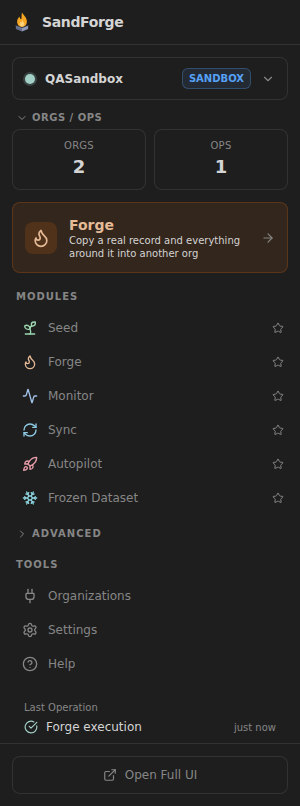
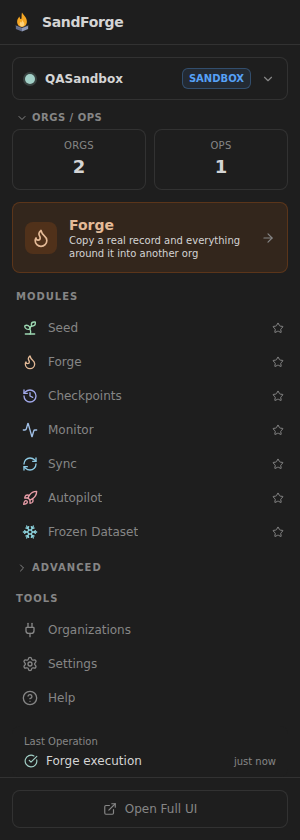
docs: the listing shows Checkpoints, and Home as an org in use
The launcher and Home stills predated Checkpoints, the 1.66.0 module, and
the listing had no picture of it. The generator now shoots the Checkpoints
page of a sandbox and the preview of a rewind, from the fixtures the
Checkpoints specs use, and the README shows both under "Rewind an org to a
checkpoint".

Home was shot with no answer to its org list, which left a row of empty
cards, and showed "Your sandbox is empty" beside a checkpoint of 2,454
records. The shot answers the org list and the checkpoints, dismisses the
banner as a reader of an org in use would, and broadcasts the Seed run and
the Forge clone the other shots show. Forge results is shot tall enough
again for its Remove action, which "Take a checkpoint now" had pushed out.

diff --git a/packages/webview/e2e/screenshots.spec.ts b/packages/webview/e2e/screenshots.spec.ts
@@ -4,10 +4,12 @@ import { createHash } from 'node:crypto';
 import { readFileSync, writeFileSync } from 'node:fs';
 import { fileURLToPath } from 'url';
 
+import type { CheckpointListEntry, CheckpointPreviewResponse } from '@sandforge/shared';
 import { MockBridge } from './helpers';
 import { encodeGif, type GifFrame } from './helpers/gifEncoder';
 import { readPng } from './helpers/readPng';
 import { MOCK_ORGS } from './fixtures';
+import { diffObject, listEntry, readyCheckpoint, USERS } from './fixtures/checkpoints';
 import { sendExtensionMessage } from './mocks/vscode-api';
 
 /**
@@ -434,6 +436,123 @@ const MOCK_SYNC_OBJECTS = {
     'Task',
   ],
 };
+
+/** A day, in milliseconds. */
+const DAY_MS = 86_400_000;
+
+/**
+ * The instant `days` from FIXED_NOW.
+ *
+ * The checkpoint fixtures date from the moment a spec runs, since the page
+ * says each checkpoint's age and expiry from now. These shots run under a
+ * clock frozen at FIXED_NOW, against which a checkpoint dated from the real
+ * now reads as taken months ahead: every date the shots hand the page is set
+ * from here instead.
+ */
+const fromFixedNow = (days: number): string =>
+  new Date(FIXED_NOW.getTime() + days * DAY_MS).toISOString();
+
+/**
+ * The checkpoint the rewind shot previews: what people work on in the dev
+ * sandbox, taken two days ago before a UAT session, kept four weeks.
+ */
+const BEFORE_UAT = readyCheckpoint({
+  readFrom: fromFixedNow(-2),
+  takenAt: fromFixedNow(-2),
+  expiresAt: fromFixedNow(28),
+});
+
+/**
+ * The checkpoints of the dev sandbox, as `checkpoint:list` answers for it:
+ * the one taken before UAT; one taken before a demo, about to expire, with
+ * Keep; and a clean baseline kept until it is deleted, rewound to yesterday,
+ * whose rewind can still be undone — older than the recycle bin keeps
+ * records, which its line says, as the extension says it of any checkpoint
+ * that old.
+ */
+const MOCK_CHECKPOINTS: CheckpointListEntry[] = [
+  listEntry(BEFORE_UAT),
+  listEntry(
+    readyCheckpoint({
+      checkpointId: 'ck-before-demo',
+      name: 'Before demo',
+      readFrom: fromFixedNow(-12),
+      takenAt: fromFixedNow(-12),
+      expiresAt: fromFixedNow(2),
+    }),
+    { expiresSoon: true },
+  ),
+  listEntry(
+    readyCheckpoint({
+      checkpointId: 'ck-clean-baseline',
+      name: 'Clean baseline',
+      readFrom: fromFixedNow(-20),
+      takenAt: fromFixedNow(-20),
+      expiresAt: null,
+      lastRewind: { rewindId: 'rw-last', endedAt: fromFixedNow(-1), undoUntil: fromFixedNow(14) },
+    }),
+    { binReachSince: fromFixedNow(-15), undo: { rewindId: 'rw-last', until: fromFixedNow(14) } },
+  ),
+];
+
+/**
+ * What a rewind of the dev sandbox to "Before UAT" would do, as
+ * `checkpoint:preview` answers it, object by object: the contacts and
+ * accounts the session added deleted, the records it changed given their
+ * values back, and the few it deleted brought back from the recycle bin,
+ * with who last changed each. The org runs nothing as the rewind writes,
+ * and nothing is beyond a rewind: Rewind is offered as it stands.
+ */
+const MOCK_REWIND_PREVIEW: CheckpointPreviewResponse['payload'] = {
+  diff: {
+    checkpointId: BEFORE_UAT.checkpointId,
+    previewId: 'pv-before-uat',
+    readAt: fromFixedNow(0),
+    objects: [
+      diffObject('Contact', {
+        toDelete: { createdSince: 5, broughtBackSince: 0, comesBackWithParent: 0 },
+        toGiveBack: { records: 7, fields: 11, clearedLookups: 0 },
+        toBringBack: { inBin: 2, withParent: 0, deletedWhileTaken: 0 },
+        lastChangedBy: { [USERS.alice]: 9, [USERS.integration]: 5 },
+      }),
+      diffObject('Case', {
+        toGiveBack: { records: 12, fields: 12, clearedLookups: 0 },
+        lastChangedBy: { [USERS.integration]: 12 },
+      }),
+      diffObject('Account', {
+        toDelete: { createdSince: 3, broughtBackSince: 0, comesBackWithParent: 0 },
+        toGiveBack: { records: 4, fields: 9, clearedLookups: 0 },
+        toBringBack: { inBin: 1, withParent: 0, deletedWhileTaken: 0 },
+        lastChangedBy: { [USERS.alice]: 8 },
+      }),
+    ],
+    undoCannot: [],
+    unread: [],
+    userNames: { [USERS.alice]: 'Alice Martin', [USERS.integration]: 'Integration User' },
+    activeLastHour: [],
+  },
+  automation: {
+    objectsRead: ['Contact', 'Case', 'Account'],
+    objects: [],
+    unread: [],
+    conditionsNotRead: 0,
+    conditionsBound: 25,
+    requests: 3,
+  },
+  estimate: { records: 34, apiRequests: 120, apiRequestsLeft: 14_900, seconds: 38, bytes: 0 },
+};
+
+/** Boot the Checkpoints page on the dev sandbox, its checkpoints listed. */
+async function openCheckpoints(page: import('@playwright/test').Page): Promise<MockBridge> {
+  const bridge = await openModule(page, 'checkpoint');
+  await page.waitForSelector('[data-testid="checkpoint-page"]');
+  await bridge.waitForMessage('checkpoint:list', { timeout: 10_000 });
+  await respondToAll(page, 'checkpoint:list', 'checkpoint:list:response', {
+    checkpoints: MOCK_CHECKPOINTS,
+  });
+  await page.waitForSelector(`[data-testid="checkpoint-row-${BEFORE_UAT.checkpointId}"]`);
+  return bridge;
+}
 
 /** One object of a Forge graph, as discovery answers with it. */
 function forgeNode(
@@ -966,8 +1085,56 @@ test.describe('Marketplace Screenshots', () => {
     // answers. Leaving it unanswered shoots three blank cards.
     await bridge.waitForMessage('monitor:refresh', { timeout: 10_000 });
     await respondToAll(page, 'monitor:refresh', 'monitor:data', MOCK_HEALTH);
+    // The KPI row reads the org list itself, apart from the read the panel
+    // makes as it boots: unanswered, the row stayed four grey slabs.
+    await respondToAll(page, 'org:list', 'org:list:response', { orgs: MOCK_ORGS });
+    // The Checkpoints tile says nothing until the org's checkpoints are listed.
+    await bridge.waitForMessage('checkpoint:list', { timeout: 10_000 });
+    await respondToAll(page, 'checkpoint:list', 'checkpoint:list:response', {
+      checkpoints: MOCK_CHECKPOINTS,
+    });
+    // What the panel has seen run, as the extension announces each run, its
+    // start then its end, in its own words: a Seed of the UAT refresh
+    // template, then the clone of the account the Forge shots follow. The
+    // tile lists them, the week's count and the running count follow.
+    await bridge.stream([
+      {
+        type: 'operation:started',
+        payload: { operationId: 'op-seed-1', module: 'seed', description: 'Seed data generation' },
+      },
+      {
+        type: 'operation:completed',
+        payload: {
+          operationId: 'op-seed-1',
+          result: {
+            status: 'success',
+            totalRecords: MOCK_SEED_TEMPLATES.templates[0].totalRecords,
+          },
+        },
+      },
+      {
+        type: 'operation:started',
+        payload: {
+          operationId: 'op-forge-1',
+          module: 'forge',
+          description: 'Executing forge operation',
+        },
+      },
+      {
+        type: 'operation:completed',
+        payload: { operationId: 'op-forge-1', result: { status: MOCK_FORGE_RUN.status } },
+      },
+    ]);
     await page.waitForSelector('[data-testid="home-page"]');
+    await page.waitForSelector('[data-testid="home-kpi-row"]');
     await page.waitForSelector('[data-testid="forge-hero-card"]');
+    await page.waitForSelector('[data-testid="checkpoint-tile-latest"]');
+    await page.getByTestId('recent-op-item').nth(1).waitFor();
+    // The banner calls a sandbox empty whatever it holds: it reads nothing of
+    // the org, only that a sandbox is connected. Someone with a sandbox in
+    // use has closed it, and it stays closed.
+    await page.getByTestId('sandbox-banner-dismiss').click();
+    await blurFocus(page);
     await settle(page);
     await shoot(page, 'home');
   });
@@ -1126,6 +1293,29 @@ test.describe('Marketplace Screenshots', () => {
     await shoot(page, 'launcher', { launcher: true, maxHeight: 1000 });
   });
 
+  test('checkpoints', async ({ page }) => {
+    await openCheckpoints(page);
+    await settle(page);
+    await shoot(page, 'checkpoints');
+  });
+
+  test('checkpoint-rewind', async ({ page }) => {
+    const bridge = await openCheckpoints(page);
+    await page.getByTestId(`checkpoint-rewind-${BEFORE_UAT.checkpointId}`).click();
+    await bridge.waitForMessage('checkpoint:preview', { timeout: 10_000 });
+    await respondToAll(
+      page,
+      'checkpoint:preview',
+      'checkpoint:preview:response',
+      MOCK_REWIND_PREVIEW,
+    );
+    await page.waitForSelector('[data-testid="checkpoint-preview-table"]');
+    // The preview's heading takes the keyboard as it opens.
+    await blurFocus(page);
+    await settle(page);
+    await shoot(page, 'checkpoint-rewind', { maxHeight: 1400 });
+  });
+
   test('forge-simulation', async ({ page }) => {
     const bridge = await openForgeReview(page);
     await simulateFromReview(page, bridge);
@@ -1179,7 +1369,9 @@ test.describe('Marketplace Screenshots', () => {
     const run = await startRun(page, bridge);
     await finishRun(page, run);
     await settle(page);
-    await shoot(page, 'forge-results', { maxHeight: 1200 });
+    // The offer to take a checkpoint of the target sits above Verify and
+    // Remove since Checkpoints came: at 1200 pixels Remove fell off the foot.
+    await shoot(page, 'forge-results', { maxHeight: 1400 });
   });
 
   test('forge-flow', async ({ page }) => {

diff --git a/packages/extension/README.md b/packages/extension/README.md
@@ -125,6 +125,10 @@ Before a test session, a demo or a training, take a checkpoint of the org; after
 4. **Rewind \<alias\>…**, then type the org's alias: the records created since are deleted, the records changed since get their values back field by field, and the records deleted since come back from the recycle bin with their Ids, or, once it no longer holds them and you accept it, are made again with new Ids. The org is read again, and what still differs is named, with why.
 5. **Undo this rewind**, offered on the org's last rewind for 15 days, returns the org to how it was before the rewind and keeps what anyone changed since. What the rewind deleted comes back while the recycle bin holds it, and the preview names first what Undo could not bring back.
 
+![Checkpoints — an org's checkpoints, one about to expire, one kept until deleted, and a rewind that can still be undone](https://raw.githubusercontent.com/StephaneBerthoz/sandforge/master/assets/screenshots/checkpoints.png)
+
+![Rewind preview — what a rewind would delete, give back and bring back, object by object, who last changed it, what it cannot undo, and its cost before anything is written](https://raw.githubusercontent.com/StephaneBerthoz/sandforge/master/assets/screenshots/checkpoint-rewind.png)
+
 Checkpoints never takes a checkpoint of a production org nor rewinds one, with no setting or flag to lift it, and needs a user with View All Data and Modify All Data. It rewinds data, not metadata, users or files: [the guide](https://github.com/StephaneBerthoz/sandforge/blob/master/docs/modules/checkpoint.md) says what a rewind leaves as it is. From a checkout of this repository, the [`sandforge-checkpoint` script](https://github.com/StephaneBerthoz/sandforge/blob/master/docs/modules/checkpoint.md#from-the-command-line) takes, previews, rewinds and undoes the same way without the editor: between two test suites on a CI scratch org, say. An AI agent reaches the same commands, with Seed, Forge's record clone and the removal of a run, as the tools of [an MCP server](https://github.com/StephaneBerthoz/sandforge/blob/master/docs/mcp.md) run from the checkout, each write confirmed by the org's alias; the extension itself gives the model no tool.
 
 ---
@@ -135,7 +139,7 @@ Checkpoints never takes a checkpoint of a production org nor rewinds one, with n
 
 ![Forge results — the records a run created, their ids in the target, its emails and phone numbers neutralized, and the actions to verify or remove what it wrote](https://raw.githubusercontent.com/StephaneBerthoz/sandforge/master/assets/screenshots/forge-results.png)
 
-![Home — orgs, health and the forge entry point](https://raw.githubusercontent.com/StephaneBerthoz/sandforge/master/assets/screenshots/home.png)
+![Home — orgs, health, the forge entry point and the last checkpoint, ready to rewind](https://raw.githubusercontent.com/StephaneBerthoz/sandforge/master/assets/screenshots/home.png)
 
 ![Sync — source and target orgs, emails and phone numbers neutralized by default, and a filtered object set](https://raw.githubusercontent.com/StephaneBerthoz/sandforge/master/assets/screenshots/sync.png)
 

diff --git a/README.md b/README.md
@@ -135,6 +135,10 @@ Before a test session, a demo or a training, take a checkpoint of the org; after
 4. **Rewind \<alias\>…**, then type the org's alias: the records created since are deleted, the records changed since get their values back field by field, and the records deleted since come back from the recycle bin with their Ids, or, once it no longer holds them and you accept it, are made again with new Ids. The org is read again, and what still differs is named, with why.
 5. **Undo this rewind**, offered on the org's last rewind for 15 days, returns the org to how it was before the rewind and keeps what anyone changed since. What the rewind deleted comes back while the recycle bin holds it, and the preview names first what Undo could not bring back.
 
+![Checkpoints — an org's checkpoints, one about to expire, one kept until deleted, and a rewind that can still be undone](assets/screenshots/checkpoints.png)
+
+![Rewind preview — what a rewind would delete, give back and bring back, object by object, who last changed it, what it cannot undo, and its cost before anything is written](assets/screenshots/checkpoint-rewind.png)
+
 Checkpoints never takes a checkpoint of a production org nor rewinds one, with no setting or flag to lift it, and needs a user with View All Data and Modify All Data. It rewinds data, not metadata, users or files: [the guide](docs/modules/checkpoint.md) says what a rewind leaves as it is. From a checkout of this repository, the [`sandforge-checkpoint` script](docs/modules/checkpoint.md#from-the-command-line) takes, previews, rewinds and undoes the same way without the editor: between two test suites on a CI scratch org, say. An AI agent reaches the same commands, with Seed, Forge's record clone and the removal of a run, as the tools of [an MCP server](docs/mcp.md) run from the checkout, each write confirmed by the org's alias; the extension itself gives the model no tool.
 
 ---
@@ -145,7 +149,7 @@ Checkpoints never takes a checkpoint of a production org nor rewinds one, with n
 
 ![Forge results — the records a run created, their ids in the target, its emails and phone numbers neutralized, and the actions to verify or remove what it wrote](assets/screenshots/forge-results.png)
 
-![Home — orgs, health and the forge entry point](assets/screenshots/home.png)
+![Home — orgs, health, the forge entry point and the last checkpoint, ready to rewind](assets/screenshots/home.png)
 
 ![Sync — source and target orgs, emails and phone numbers neutralized by default, and a filtered object set](assets/screenshots/sync.png)
 
